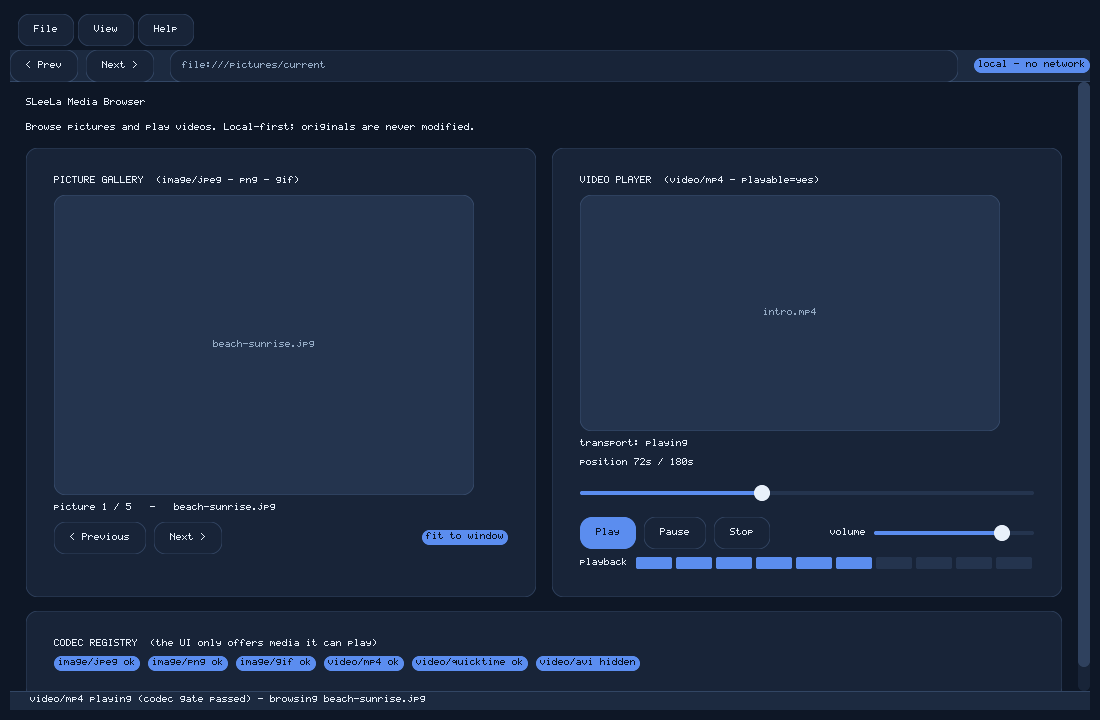
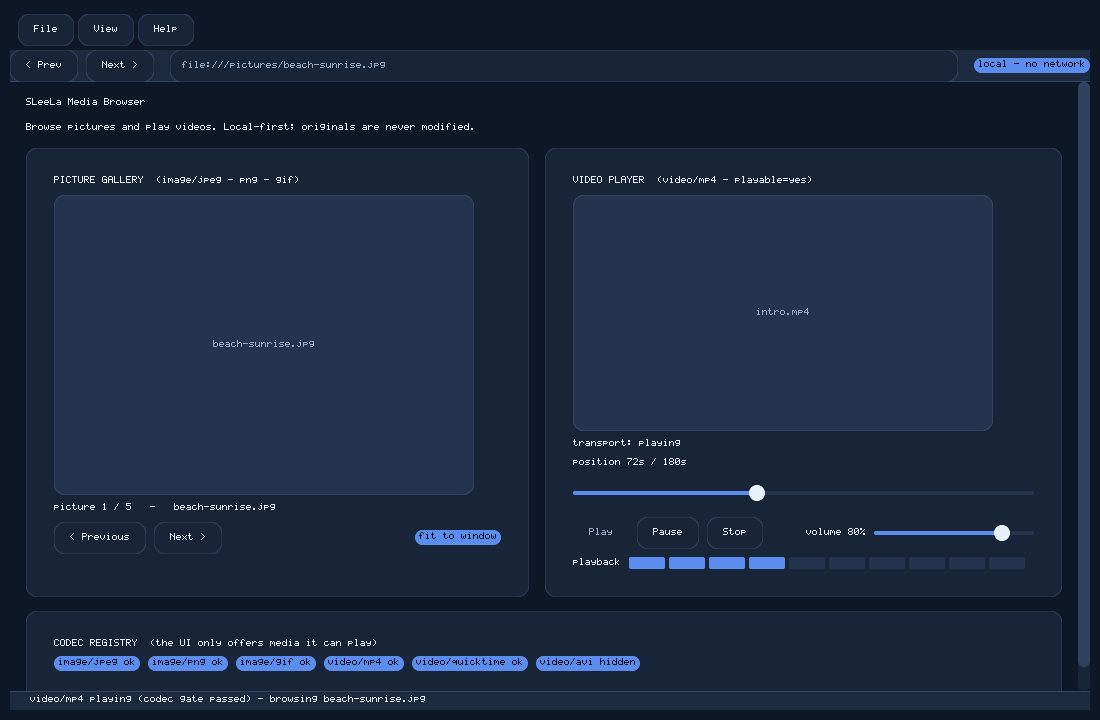
Tighten MediaBrowser: live sliders, state-aware transport, real codec gating
- Centralize transport presentation in syncTransport() so caption, enabled
  controls, level bar, and status never drift apart.
- Read the seek and volume sliders live each frame (pollSliders): the seek
  slider drives the position readout and playback level; volume shows a live
  'volume NN%' readout.
- Enable/disable Play/Pause/Stop and the sliders to match player state, and
  gate the entire transport off when the codec is unavailable (not just a
  label), honoring 'never offer media it cannot play'.
- Location bar now tracks the current picture; add tooltips to nav, transport,
  and slider controls.
- Update screenshot driver + docs/images/media-browser.png to the tightened UI;
  bump metaVersion to 1.1.0 and refresh gui/README.md.

diff --git a/gui/README.md b/gui/README.md
@@ -27,14 +27,24 @@ not a mockup.*
 - **Menu bar**: File (Open Picture / Open Folder / Media Information / Quit),
   View (Picture Gallery / Video Player), and Help (Media Guide / About),
   implemented as a horizontal button strip with collapsible dropdown panels.
-- **Navigation header**: Prev / Next, a location field, and a `local - no
-  network` badge.
+- **Navigation header**: Prev / Next, a location field that tracks the current
+  file, and a `local - no network` badge.
 - **Picture gallery**: an image canvas with a paging caption and Previous /
-  Next controls that cycle a small demo set.
-- **Video player**: a video canvas with full transport — Play / Pause / Stop, a
-  seek slider, a volume slider, and a playback level bar.
-- **Codec registry**: badges showing which media types the UI will offer; an
-  unplayable type is shown disabled. The UI never offers media it cannot play.
+  Next controls that cycle a small demo set; the location bar updates as you
+  browse.
+- **Video player**: a video canvas with full, **live** transport — Play /
+  Pause / Stop, a seek slider that drives the position readout and the playback
+  level bar, and a volume slider with a live `volume NN%` readout.
+- **State-aware controls**: the transport buttons enable and disable to match
+  the player state (Play is off while playing; Pause/Stop are off while
+  stopped), so the controls never misrepresent what will happen.
+- **Real codec gating**: if the player's media type is not playable, the whole
+  transport is disabled — not merely labelled. The UI never offers media it
+  cannot play.
+- **Tooltips** on the navigation, transport, and slider controls.
+
+Transport presentation is centralized in one `syncTransport()` routine so the
+caption, enabled controls, level bar, and status line can never drift apart.
 
 The browser owns no filesystem-mutating capability. Consistent with the
 project's security posture there is no network, telemetry, key upload, database
